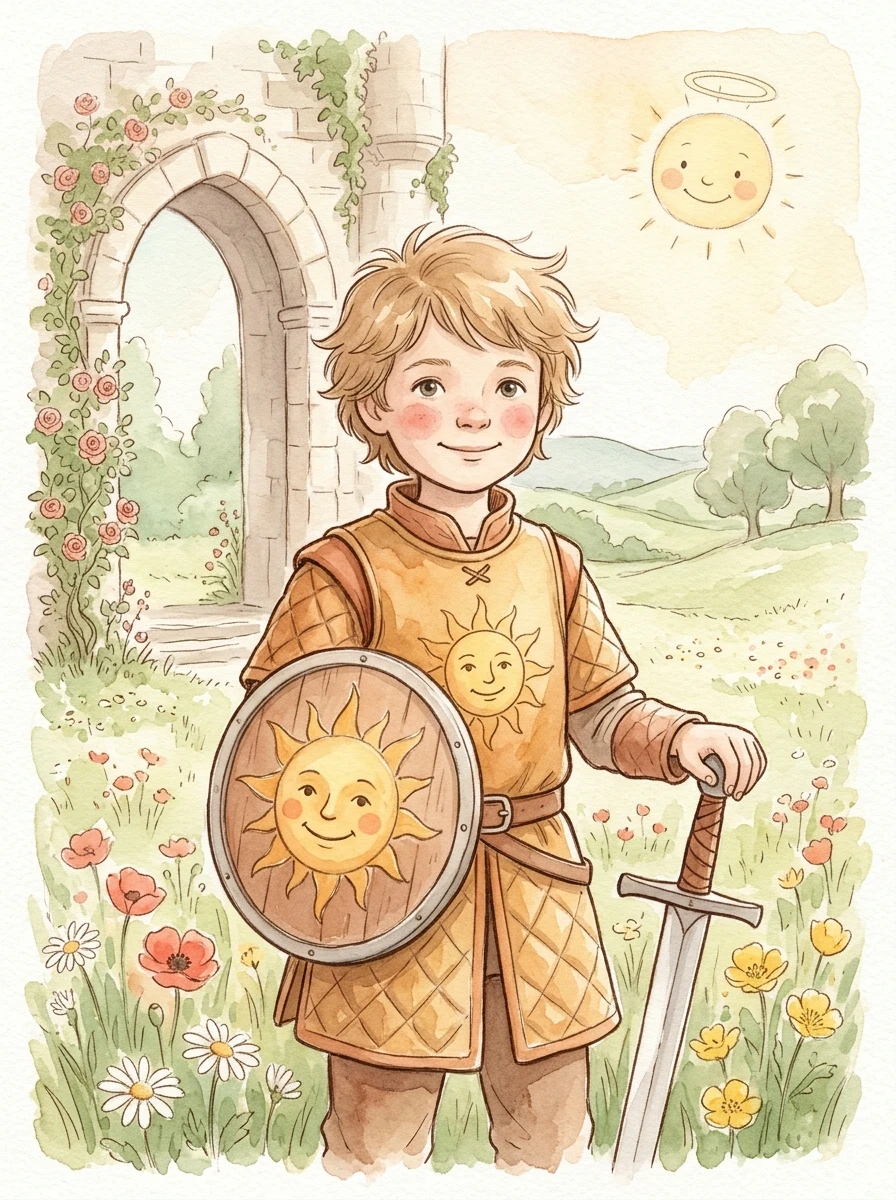
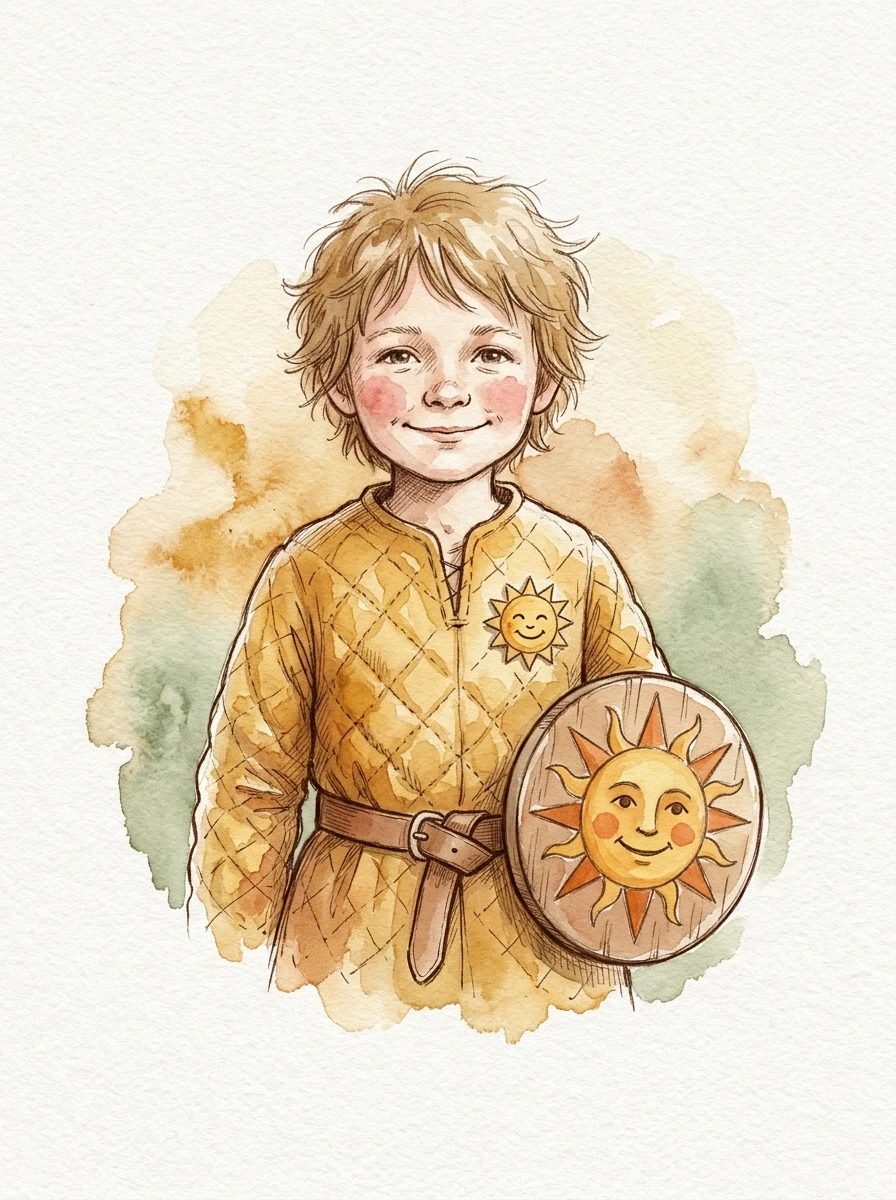
feat: use organic watercolor vignette portraits with warm paper studio frame and cache-busting

diff --git a/web/components/assessments/WelcomeWizard.tsx b/web/components/assessments/WelcomeWizard.tsx
@@ -132,25 +132,22 @@ export default function WelcomeWizard(p: Props) {
                   on ? T.cardOn : T.cardOff
                 }`}
               >
-                {/* Top Avatar Illustration Window */}
-                <div className="relative mb-3 h-48 sm:h-56 w-full overflow-hidden rounded-2xl bg-gradient-to-b from-slate-100 to-slate-200/80 shadow-inner flex items-center justify-center">
+                {/* Top Avatar Illustration Window - Warm Watercolor Paper Studio Frame */}
+                <div className="relative mb-3 h-52 sm:h-60 w-full overflow-hidden rounded-2xl bg-[#FAF7F2] border border-[#EADBCC]/80 shadow-[inset_0_1px_4px_rgba(0,0,0,0.04)] flex items-center justify-center p-2">
                   {cls.image ? (
                     <img
                       src={cls.image}
                       alt={cls.name}
-                      className="h-full w-full object-cover object-center transition-transform duration-500 group-hover:scale-105"
+                      className="h-full w-full object-contain object-center transition-transform duration-500 group-hover:scale-105 drop-shadow-xs"
                       loading="eager"
                     />
                   ) : AvatarComponent ? (
-                    <AvatarComponent className="h-full w-full object-cover transition-transform duration-300 group-hover:scale-105" />
+                    <AvatarComponent className="h-full w-full object-contain transition-transform duration-300 group-hover:scale-105" />
                   ) : Icon ? (
                     <div className={`rounded-2xl p-4 ${on ? T.iconOn : 'bg-white text-slate-700 shadow-sm'}`}>
                       <Icon className="h-12 w-12" />
                     </div>
                   ) : null}
-
-                  {/* Gentle gradient overlay at bottom of portrait for depth */}
-                  <div className="pointer-events-none absolute inset-x-0 bottom-0 h-12 bg-gradient-to-t from-black/50 via-black/20 to-transparent" />
 
                   {/* Persona Badge */}
                   {cls.badge && (

diff --git a/web/app/assessments/autism/page.tsx b/web/app/assessments/autism/page.tsx
@@ -459,7 +459,7 @@ const GROVE_AFFINITIES = [
   {
     name: 'Grove Harmonizer',
     badge: 'Forest Friend',
-    image: '/quests/characters/grove_harmonizer.webp',
+    image: '/quests/characters/grove_harmonizer.webp?v=watercolor5',
     Svg: LeafGlyphSvg,
     AvatarSvg: GroveHarmonizerAvatarSvg,
     desc: 'Gentle & caring · Listens to the trees, plants, and friendly fireflies'
@@ -467,7 +467,7 @@ const GROVE_AFFINITIES = [
   {
     name: 'Crystal Alchemist',
     badge: 'Pattern Explorer',
-    image: '/quests/characters/crystal_alchemist.webp',
+    image: '/quests/characters/crystal_alchemist.webp?v=watercolor5',
     Svg: CrystalGlyphSvg,
     AvatarSvg: CrystalAlchemistAvatarSvg,
     desc: 'Curious & observant · Notices hidden clues and solves colorful puzzles'
@@ -475,7 +475,7 @@ const GROVE_AFFINITIES = [
   {
     name: 'Quiet Seeker',
     badge: 'Peaceful Observer',
-    image: '/quests/characters/quiet_seeker.webp',
+    image: '/quests/characters/quiet_seeker.webp?v=watercolor5',
     Svg: DoveGlyphSvg,
     AvatarSvg: QuietSeekerAvatarSvg,
     desc: 'Calm & thoughtful · Notices gentle details and understands friends quietly'

diff --git a/web/app/assessments/adhd/page.tsx b/web/app/assessments/adhd/page.tsx
@@ -447,7 +447,7 @@ const GUILD_CLASSES = [
   {
     name: 'Canopy Sky Ranger',
     badge: 'Eagle-Eyed Scout',
-    image: '/quests/characters/canopy_sky_ranger.webp',
+    image: '/quests/characters/canopy_sky_ranger.webp?v=watercolor5',
     Svg: BowIconSvg,
     AvatarSvg: CanopyRangerAvatarSvg,
     desc: 'Fast & sharp-eyed · Spots distant birds'
@@ -455,7 +455,7 @@ const GUILD_CLASSES = [
   {
     name: 'Astral Spellcaster',
     badge: 'Star Mage',
-    image: '/quests/characters/astral_spellcaster.webp',
+    image: '/quests/characters/astral_spellcaster.webp?v=watercolor5',
     Svg: WandIconSvg,
     AvatarSvg: AstralSpellcasterAvatarSvg,
     desc: 'Creative & bright · Lights up constellations'
@@ -463,7 +463,7 @@ const GUILD_CLASSES = [
   {
     name: 'Sunfire Knight',
     badge: 'Sun Guardian',
-    image: '/quests/characters/sunfire_knight.webp',
+    image: '/quests/characters/sunfire_knight.webp?v=watercolor5',
     Svg: ShieldIconSvg,
     AvatarSvg: SunfireKnightAvatarSvg,
     desc: 'Steady & brave · Brings courage & calm'

diff --git a/web/app/assessments/dyslexia/page.tsx b/web/app/assessments/dyslexia/page.tsx
@@ -78,19 +78,19 @@ const SCHOLAR_CLASSES: Cls[] = [
     name: "Echo Scribe",
     desc: "Keen listener · Catches echoing sounds and rhyming words",
     badge: "Sound Scholar",
-    image: "/quests/characters/echo_scribe.webp",
+    image: "/quests/characters/echo_scribe.webp?v=watercolor5",
   },
   {
     name: "Rune Archivist",
     desc: "Letter detective · Untangles puzzle letters and finds hidden words",
     badge: "Letter Seeker",
-    image: "/quests/characters/rune_archivist.webp",
+    image: "/quests/characters/rune_archivist.webp?v=watercolor5",
   },
   {
     name: "Story Navigator",
     desc: "Creative thinker · Enjoys great adventures, pictures, and tales",
     badge: "Story Weaver",
-    image: "/quests/characters/story_navigator.webp",
+    image: "/quests/characters/story_navigator.webp?v=watercolor5",
   },
 ];
 
